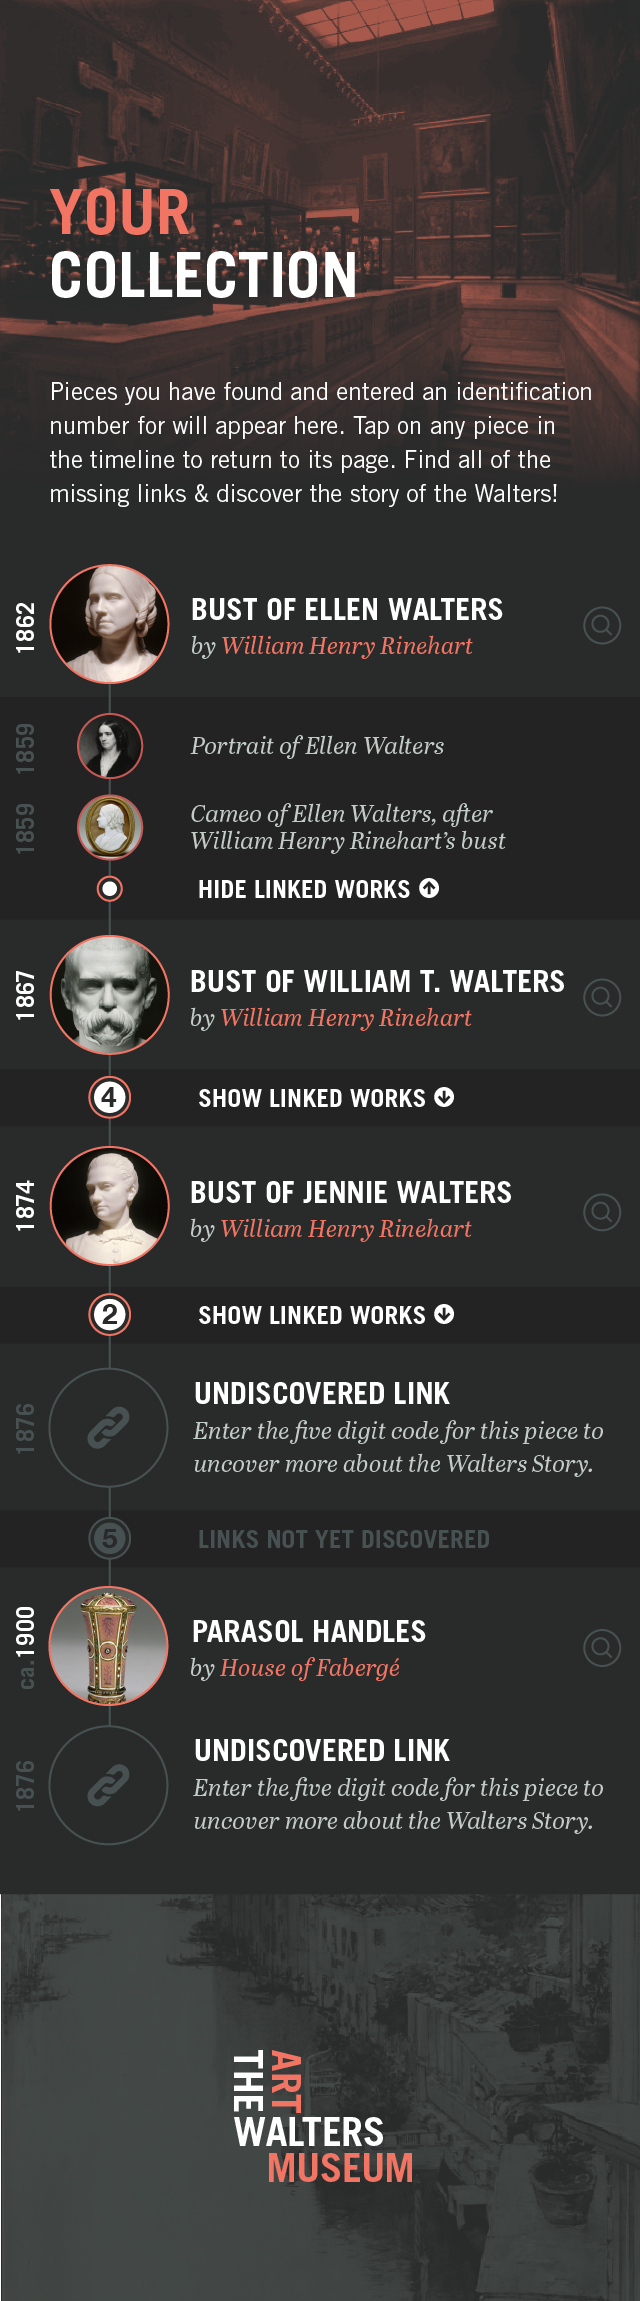
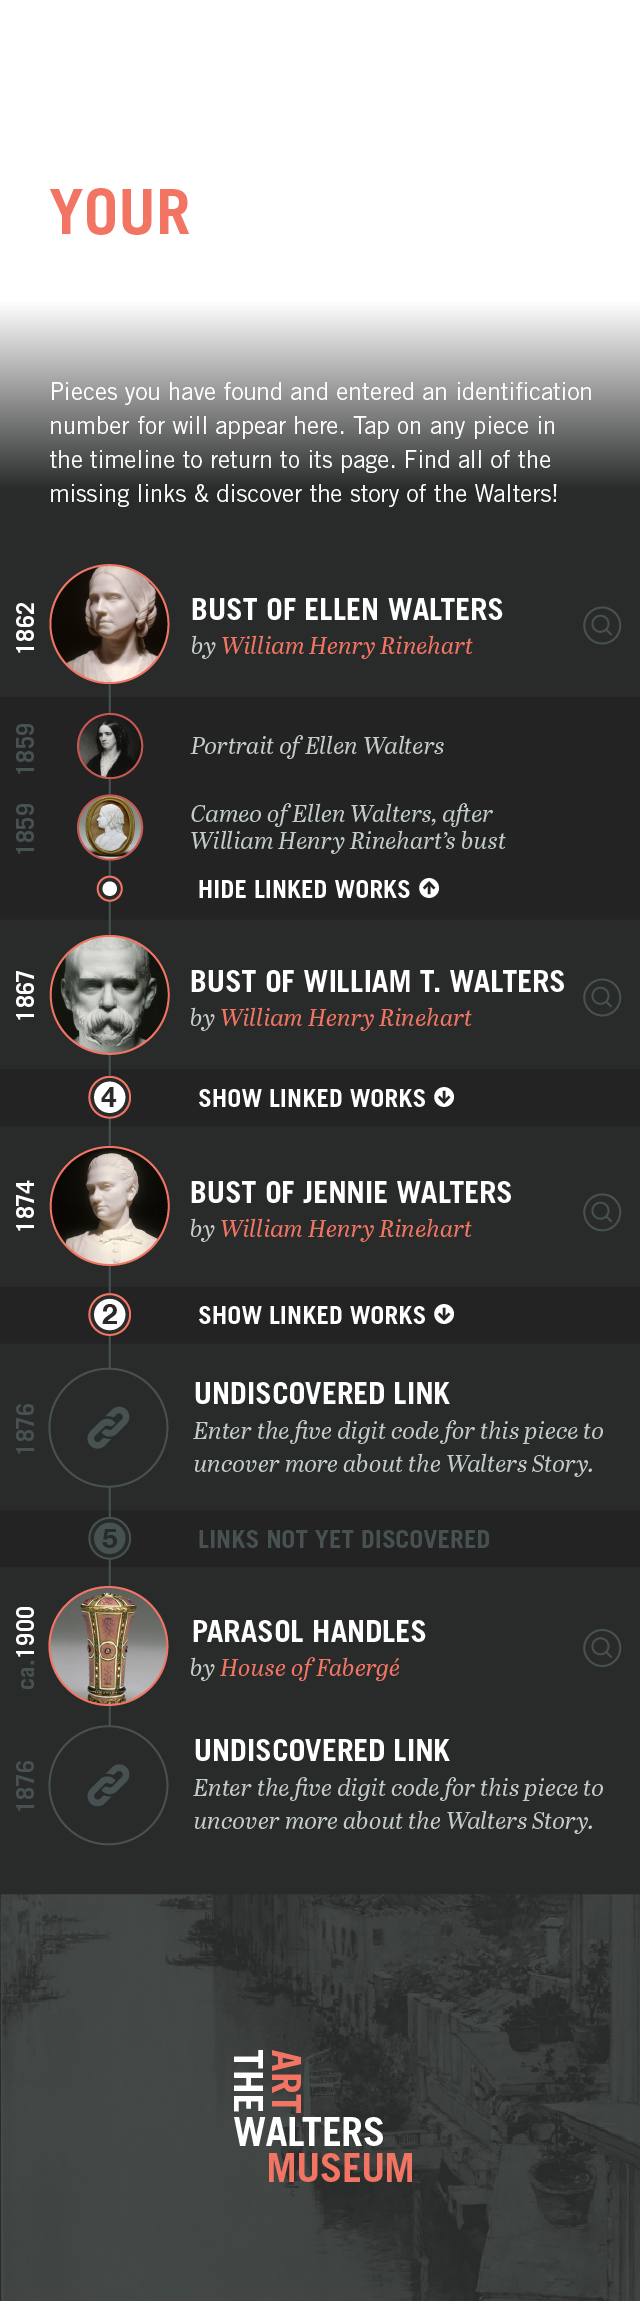
cool fixed action

Changed region(s): [[0.0, 0.0, 1.0, 0.216]]

diff --git a/walters/index.html b/walters/index.html
@@ -6,7 +6,8 @@
 <style>
 
 	body {
-		background-color:#000;
+		background-image:url(images/collectionheader.jpg);
+		background-attachment: fixed;
 		background-size: 320px auto;
 		background-repeat: no-repeat;
 		margin: 0;
